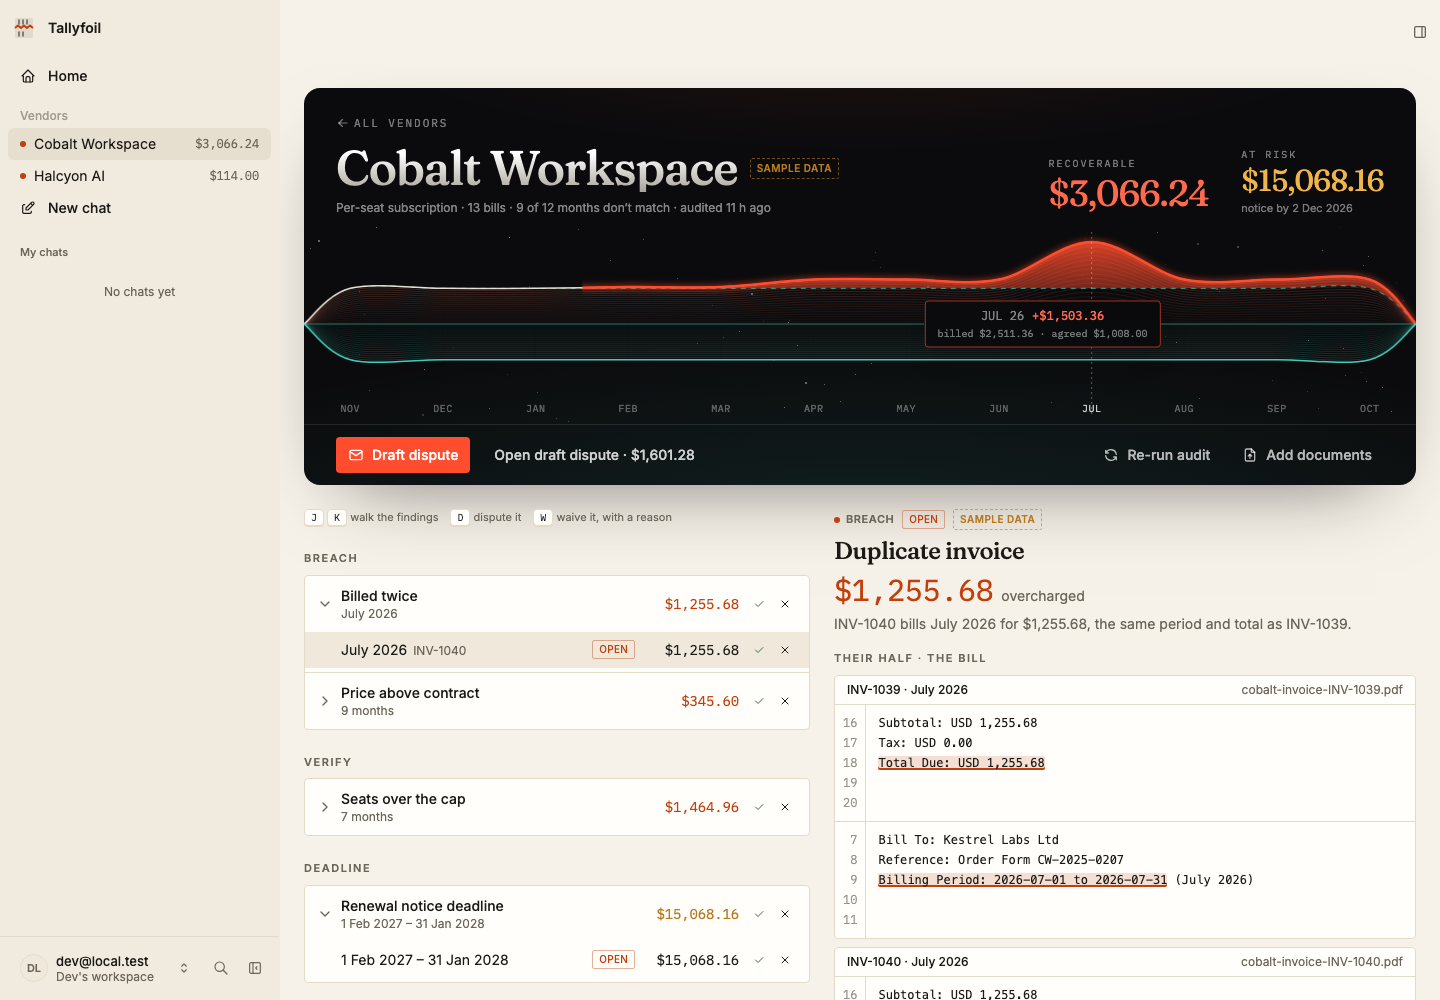
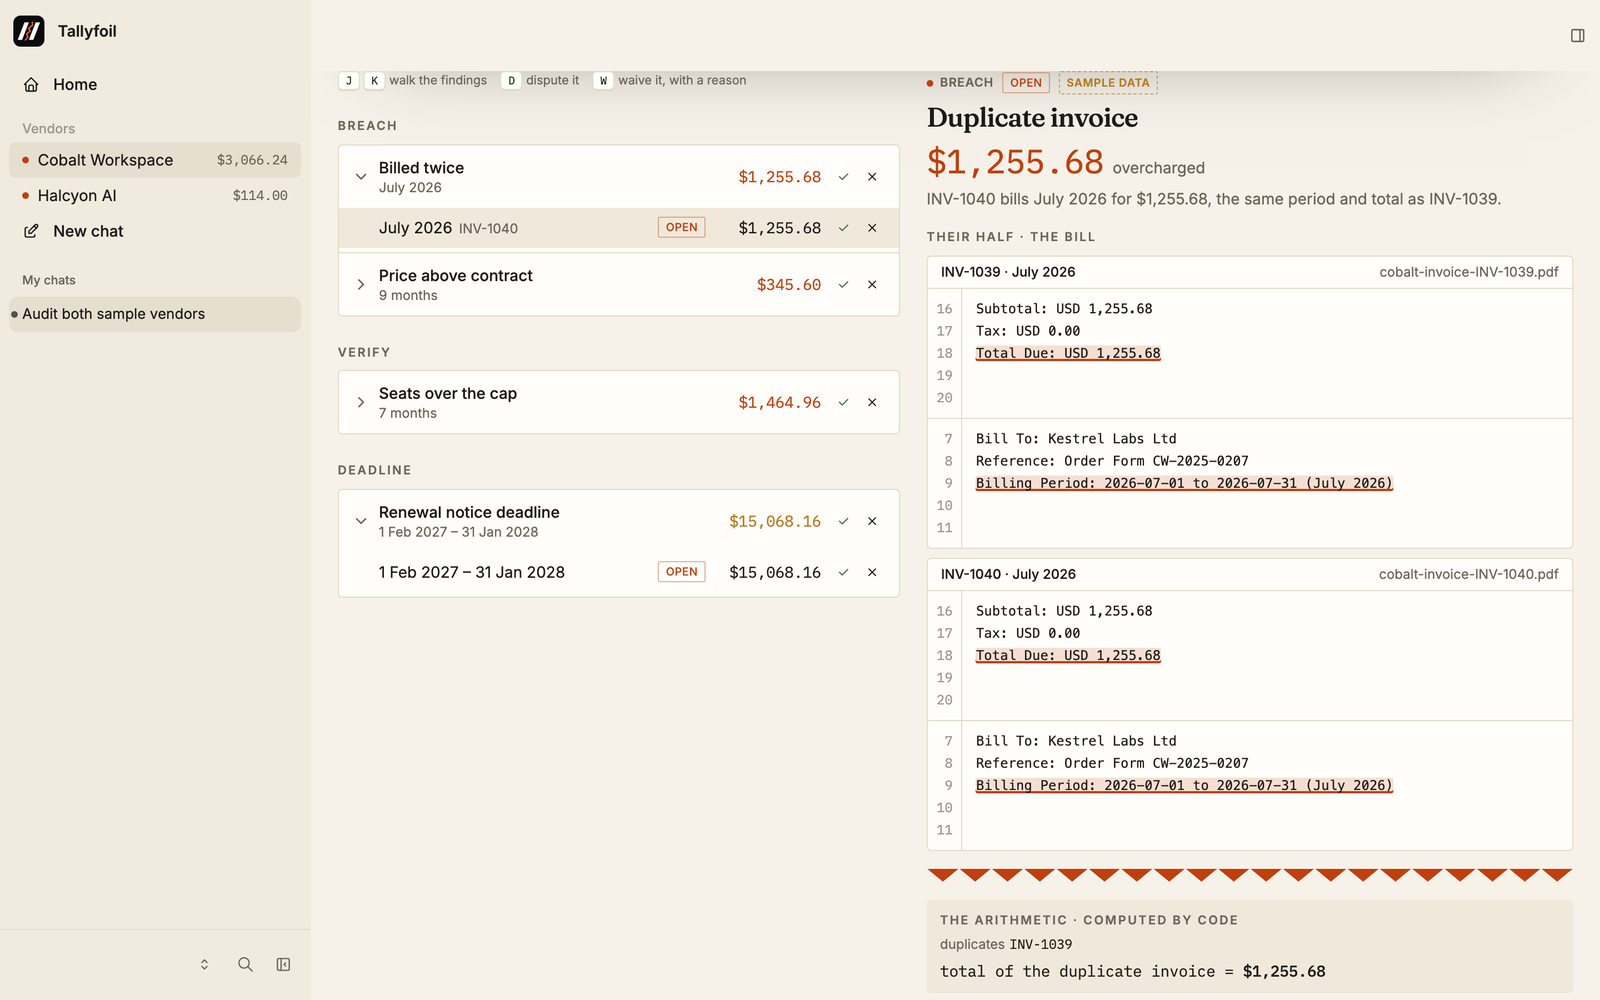
README: lead with the demo video, show the whole flow in screenshots

diff --git a/README.md b/README.md
@@ -1,65 +1,139 @@
-# Tallyfoil
+<p align="center">
+  <img src="app/public/favicon.svg" width="88" alt="Tallyfoil logo" />
+</p>
 
-**Tallyfoil finds what your vendors overcharged you, proves it, and drafts the email to get it back.**
+<h1 align="center">Tallyfoil</h1>
 
-The AI reads; code decides the money.
+<p align="center">
+  <b>Every vendor overcharge, proven.</b><br />
+  Tallyfoil audits your vendor bills against what you agreed, proves each overcharge
+  with quotes from both documents, and drafts the dispute.
+</p>
 
-**Try it live:** https://tallyfoil.vercel.app (create an account, then choose "Watch a sample audit").
+<p align="center">
+  <a href="https://tallyfoil.vercel.app"><b>Try it live</b></a> ·
+  <a href="https://youtu.be/HRD7-Imp7CQ"><b>Watch the 66-second demo</b></a> ·
+  <a href="#run-it-locally"><b>Run it locally</b></a>
+</p>
 
-![The overview: $3,180.24 recoverable, $15,068.16 at risk, and the mirror chart of billed vs agreed](docs/screens/overview.png)
+<p align="center">
+  <img alt="Built on Agent-Native" src="https://img.shields.io/badge/built%20on-Agent--Native-0b0b0d?style=flat-square" />
+  <img alt="118 tests passing" src="https://img.shields.io/badge/tests-118%20passing-1f9e8a?style=flat-square" />
+  <img alt="Money in integer cents" src="https://img.shields.io/badge/money-integer%20cents-ff5a36?style=flat-square" />
+  <img alt="Builder.io Agent-Native Hackathon" src="https://img.shields.io/badge/Builder.io-Agent--Native%20Hackathon-6e56cf?style=flat-square" />
+</p>
 
-Upload a vendor's contract and invoices, plus the usage export for AI/API vendors. The
-in-app agent reads every document and records each term and bill line. Each value has to
-come with an exact quote, and the app checks that quote against the source text before
-saving it. A deterministic audit engine, not the model, then computes every finding:
+<p align="center">
+  <a href="https://youtu.be/HRD7-Imp7CQ">
+    <img src="docs/screens/demo-thumbnail.png" width="860" alt="Watch the Tallyfoil demo on YouTube: They billed you twice." />
+  </a>
+</p>
 
-| Check | Severity |
-|---|---|
-| Invoice billed twice for the same period | breach |
-| Unit price above the contract (renewal uplift cap) | breach |
-| Usage billed above what the usage export logged | breach |
-| Metered rate above contract | breach |
-| Seats billed beyond the licensed cap | verify |
-| Auto-renewal notice deadline approaching | deadline |
+---
 
-The table maps the engine's checks to the severity it gives each one.
+## The problem
 
-## What you can do
+Vendors overbill quietly. A renewal comes in 9% higher when the contract caps it at 5%.
+You pay for 48 seats on a 40-seat license. July gets invoiced twice. The usage bill
+counts millions more tokens than your own export logged. Nobody checks line by line,
+because it is tedious, and you can't trust an AI that "reads" the invoice and makes up
+a number. A dispute built on a guess gets thrown back at you.
 
-- **See the gap.** The mirror chart puts what they billed above the line and what you
-  agreed below it. An honest month is symmetric. An overcharge breaks the mirror, and
-  you can click it to open the proof.
-- **Click any number.** Every amount opens two halves: the bill line and the contract
-  clause, both highlighted in the original document, with the arithmetic between them.
-- **Triage fast.** <kbd>J</kbd>/<kbd>K</kbd> step through findings while the evidence
-  follows. <kbd>D</kbd> stamps a finding for the dispute; <kbd>W</kbd> waives it and asks
-  why.
-- **Teach it, with proof.** Reject a finding with a reason ("we approved 48 seats by
-  email") and paste the email. The agent turns the reason into a vendor rule and quotes
-  the approval line as proof, then the audit re-runs. Rules are labeled *Proven by email*
-  or *Your word*.
-- **Dispute without invented numbers.** The agent drafts the email. A number guard checks
-  every dollar amount in the prose against the ledger as you type, and approval is blocked
-  while any amount is one the engine never computed.
-- **Close the loop.** When the vendor answers, paste their reply on the dispute. The
-  agent quotes the line that states the credit, and code reads the amount from the
-  vendor's own words. The dispute is marked *Recovered* or *Part recovered*, and the
-  overview shows how much has been credited back.
+## The idea: the AI reads, code decides the money
 
-![Evidence view: the duplicate July invoice, quoted from both bills](docs/screens/evidence.png)
+Tallyfoil splits the work between an agent and plain code. Each side does what it's
+good at:
 
-![The number guard catching an amount the engine never computed](docs/screens/number-guard.png)
+| | The agent (judgment) | Deterministic code (the money) |
+|---|---|---|
+| **Reading** | Pulls terms and bill lines out of messy PDFs, CSVs and emails | Rejects every value whose quote isn't in the source document, or whose quote doesn't contain the value |
+| **Auditing** | Explains findings, answers "why?" | `server/audit/engine.ts` computes every finding in integer cents. Rates are integer micro-dollars. |
+| **Learning** | Turns "we approved 48 seats by email" into a vendor rule, quoting the email as proof | Re-runs the audit with the rule applied |
+| **Disputing** | Drafts the email | The **number guard** blocks approval while the prose contains any amount the engine never computed |
 
-## How it's built
+The agent never writes a dollar amount into the database. Click any number in the app
+and you can see where it came from.
+
+<p align="center">
+  <img src="docs/screens/overview.png" width="900" alt="Overview: $3,180.24 recoverable, $15,068.16 at risk, and the mirror chart of billed against agreed" />
+  <br /><sub>The overview. What they billed sits above the line and what you agreed sits below it. An overcharge breaks the mirror, and you can click it to open the proof.</sub>
+</p>
+
+## How it works
+
+<table>
+  <tr>
+    <td width="50%" valign="top">
+      <b>1. Sign up in seconds</b><br />
+      Email and password. Then load the labeled sample audit, or bring your own bills.<br /><br />
+      <img src="docs/screens/signup.png" alt="The Tallyfoil sign-up page" />
+    </td>
+    <td width="50%" valign="top">
+      <b>2. Add both halves of the deal</b><br />
+      Drop in the contract and the invoices, plus the usage export for AI and API vendors.
+      Files are read in your browser (pdf.js, papaparse), and only the text is sent.<br /><br />
+      <img src="docs/screens/upload.png" alt="Upload modal: add the contract and the bills" />
+    </td>
+  </tr>
+  <tr>
+    <td width="50%" valign="top">
+      <b>3. The agent reads, the engine audits</b><br />
+      The in-app agent records each term and bill line with its quotes. The audit engine
+      then computes the findings. The agent never does the math.<br /><br />
+      <img src="docs/screens/agent.png" alt="The agent auditing both sample vendors" />
+    </td>
+    <td width="50%" valign="top">
+      <b>4. Click any number to see the proof</b><br />
+      Every finding opens the bill line and the contract clause, both highlighted in the
+      original document, with the arithmetic between them.<br /><br />
+      <img src="docs/screens/evidence.png" alt="Evidence view: the duplicate July invoice quoted from both bills" />
+    </td>
+  </tr>
+  <tr>
+    <td width="50%" valign="top">
+      <b>5. Teach it, with proof</b><br />
+      Reject a finding with a reason and paste the approval email. The agent turns it into
+      a vendor rule labeled <i>Proven by email</i>, and the totals update live.<br /><br />
+      <img src="docs/screens/teach-rule.png" alt="A vendor rule added from an approval email; the audit re-runs" />
+    </td>
+    <td width="50%" valign="top">
+      <b>6. Dispute without invented numbers</b><br />
+      The agent drafts the email. Slip in "$5,000 goodwill credit" and the number guard
+      catches it as you type. Approval stays blocked until every amount traces back to the ledger.<br /><br />
+      <img src="docs/screens/number-guard.png" alt="The number guard flagging an amount the engine never computed" />
+    </td>
+  </tr>
+</table>
+
+**Then close the loop.** Paste the vendor's reply. The agent quotes the line that states
+the credit, and code reads the amount from the vendor's own words. The dispute is marked
+*Recovered* or *Part recovered*. A daily **renewal watch** automation re-runs the audit
+and warns you before an auto-renewal notice window closes.
+
+**Move fast.** <kbd>J</kbd>/<kbd>K</kbd> step through findings while the evidence follows,
+<kbd>D</kbd> stamps a finding for the dispute, and <kbd>W</kbd> waives it and asks why.
+
+## What it catches
+
+| Check | Example from the sample audit | Severity |
+|---|---|---|
+| Invoice billed twice for the same period | INV-1040 repeats INV-1039: July 2026, $1,255.68 | breach |
+| Unit price above the contract (renewal uplift cap) | $26.16 a seat, where the 5% cap allows $25.20 | breach |
+| Usage billed above what the usage export logged | 23M input tokens more than the export recorded | breach |
+| Metered rate above the contract | Billed above the agreed rate per 1M tokens | breach |
+| Seats billed beyond the licensed cap | 48 seats billed on a 40-seat license | verify |
+| Auto-renewal notice deadline approaching | Notice due 2 Dec 2026, with $15,068.16 at risk | deadline |
+
+## Built on Agent-Native
 
 Tallyfoil is an [Agent-Native](https://www.agent-native.com) app built on the Chat
-template. The UI and the agent share one set of actions:
+template. The UI and the agent are two clients of the same actions:
 
 ```mermaid
 flowchart LR
   subgraph Browser
     UI[React UI<br/>overview · vendor · evidence · dispute]
-    PDF[pdfjs / papaparse<br/>text extraction]
+    PDF[pdf.js / papaparse<br/>text extraction]
   end
   Agent[In-app agent<br/>skills: audit-vendor ·<br/>learn-from-rejection · write-dispute]
   subgraph Server
@@ -79,67 +153,82 @@ flowchart LR
   UI -. navigation · selection .-> Agent
 ```
 
-- **Actions are the only API.** Every capability is a `defineAction` in `app/actions/`.
-  The UI calls them with `useActionQuery`/`callAction`, and the agent calls the same ones
-  as tools. UI-only views are marked `agentTool: false`.
-- **No inline LLM calls.** Buttons that need judgment ("Ask why", "Draft dispute",
-  "Reject and teach") hand off to the agent with `sendToAgentChat`.
-- **The agent never writes a dollar amount.** `record-terms` and `record-invoices` reject
-  any value whose quote isn't in the document, or whose quote doesn't contain the value.
-  Amounts come only from `server/audit/engine.ts`. Money is integer cents throughout, and
-  meter rates are integer micro-dollars.
-- **The agent sees what you see.** `navigation` and `selection` app-state, plus
-  `view-screen`, let the agent act on "this finding" or a highlighted range of a document.
-- **Approval stays with you.** `approve-dispute` is marked `needsApproval`, and the agent
-  never sends email.
-- **Renewal watch.** A daily automation (`jobs/renewal-watch.md`) re-runs the audit
-  against today's date and warns before an auto-renewal notice window closes.
+| Agent-Native primitive | How Tallyfoil uses it |
+|---|---|
+| `defineAction` | 24 actions are the only API. The UI calls them, and the agent calls the same ones as tools. UI-only views are marked `agentTool: false`. |
+| `sendToAgentChat` | The buttons that need judgment ("Ask why", "Reject and teach", "Draft dispute") hand off to the agent. There are no inline LLM calls. |
+| App state and `view-screen` | `navigation` and `selection` let the agent act on "this finding" or a highlighted range of a document. |
+| `needsApproval` | `approve-dispute` waits for you, and the agent never sends email. |
+| Skills | `audit-vendor`, `learn-from-rejection` and `write-dispute` in `app/.agents/skills/` |
+| Automations | The daily renewal watch, installed for each user at `jobs/renewal-watch.md` |
+| Drizzle and Postgres | Every table has `owner_email`, and every query filters by it. PGlite runs locally and Neon in production. |
 
 ## Run it locally
 
 ```bash
 cd app
 pnpm install
-pnpm dev                 # http://localhost:8080 — "Continue as local dev"
+pnpm dev                 # http://localhost:8080, then "Continue as local dev"
 pnpm test                # audit engine, evidence matcher, number guard (118 tests)
 ```
 
 Connect a model in the chat panel (**Use Builder.io** or **Custom keys**), or set one in
-`app/.env`: `ANTHROPIC_API_KEY`, or any OpenAI-compatible endpoint (we run on DeepSeek with
-`OPENAI_API_KEY`, `OPENAI_BASE_URL`, `AGENT_ENGINE=ai-sdk:openai`, `AGENT_MODEL=deepseek-chat`;
-see `app/.env.example`). Then click **Load sample audit** and the agent reads
-and audits both sample vendors.
+`app/.env`. You can use `ANTHROPIC_API_KEY` or any OpenAI-compatible endpoint. The live
+app runs on DeepSeek with `OPENAI_API_KEY`, `OPENAI_BASE_URL`, `AGENT_ENGINE=ai-sdk:openai`
+and `AGENT_MODEL=deepseek-chat` (see `app/.env.example`). Then click **Load sample audit**,
+and the agent reads and audits both sample vendors.
 
-To see the finished audit without a model, replay the sample reading deterministically:
+To see the finished audit without a model, replay the sample reading:
 
 ```bash
 pnpm replay-sample       # 19 findings, $3,180.24 recoverable, $15,068.16 at risk
 ```
 
-## Sample data
+## Sample data you can check by hand
 
-The demo uses a fictional, clearly labeled sample set with known errors, so you can check
-the totals by hand:
+The demo uses a fictional sample set with known errors. Every sample document says
+"SAMPLE DOCUMENT", and sample vendors carry a *Sample data* badge in the UI.
 
-- **Cobalt Workspace** (SaaS seats): an order form and 13 monthly invoices. The renewal
-  price is 9% above a 5% cap, 48 seats are billed against a 40-seat license, July is
-  billed twice, and the auto-renew notice is due 2 Dec 2026.
-- **Halcyon AI** (API usage): an order form, an invoice and a usage export. 23M input
-  tokens are billed above what the export logged, at a rate above contract.
+- **Cobalt Workspace** (SaaS seats) has an order form and 13 monthly invoices. The renewal price is
+  9% above a 5% cap, 48 seats are billed against a 40-seat license, July is billed twice, and
+  the auto-renew notice is due 2 Dec 2026.
+- **Halcyon AI** (API usage) has an order form, an invoice and a usage export. The invoice bills
+  23M more input tokens than the export logged, at a rate above the contract.
 
 | Scenario | Recoverable | At risk |
 |---|---|---|
 | Before any human input | **$3,180.24** | $15,068.16 |
-| After "we approved 48 seats from April" | **$1,769.04** | $15,068.16 |
+| After the rule "we approved 48 seats from April" | **$1,769.04** | $15,068.16 |
 
-Every sample document says "SAMPLE DOCUMENT", and sample vendors carry a *Sample data*
-badge in the UI.
+`app/seed/expected-findings.json` holds the exact expected output, and `pnpm test`
+checks that the engine reproduces it to the cent.
+
+## Repo map
+
+```
+app/
+  actions/               24 defineAction()s, shared by the UI and the agent
+  server/audit/          engine, evidence matcher, number guard (pure, integer cents)
+  server/tally/          persistence, views, dispute composition, renewal watch
+  server/db/schema.ts    Drizzle schema, every table owner-scoped
+  app/components/tally/  the UI: overview, mirror chart, evidence, dispute composer
+  .agents/skills/        audit-vendor · learn-from-rejection · write-dispute
+  AGENTS.md              the in-app agent's instructions
+  seed/                  the labeled sample set and its expected findings
+docs/
+  SPEC.md                product spec, data model, every action
+  ENGINE.md              audit rules and the evidence check
+  FRAMEWORK_NOTES.md     the Agent-Native APIs we verified and used
+  UI.md                  screens and visual design
+```
 
 ## Pre-existing work
 
-Built in two days during the Builder.io Agent-Native Hackathon (8–9 Nov 2026) on the Agent-Native
-Chat template (`@agent-native/core` 0.226.0). Libraries: Drizzle, zod, pdfjs-dist,
-papaparse, vitest, Tailwind. No code from earlier projects. The planning docs that
-guided the build are in [`docs/`](docs/).
+Built solo in two days during the Builder.io Agent-Native Hackathon (8–9 Nov 2026), on
+the Agent-Native Chat template (`@agent-native/core` 0.226.0). Libraries: Drizzle, zod,
+pdfjs-dist, papaparse, vitest and Tailwind. It uses no code from earlier projects.
 
-Built by Martin Chinedu Machiebe (solo).
+<p align="center">
+  Built by <b>Martin Chinedu Machiebe</b><br />
+  <sub>The AI reads. Code decides the money.</sub>
+</p>
